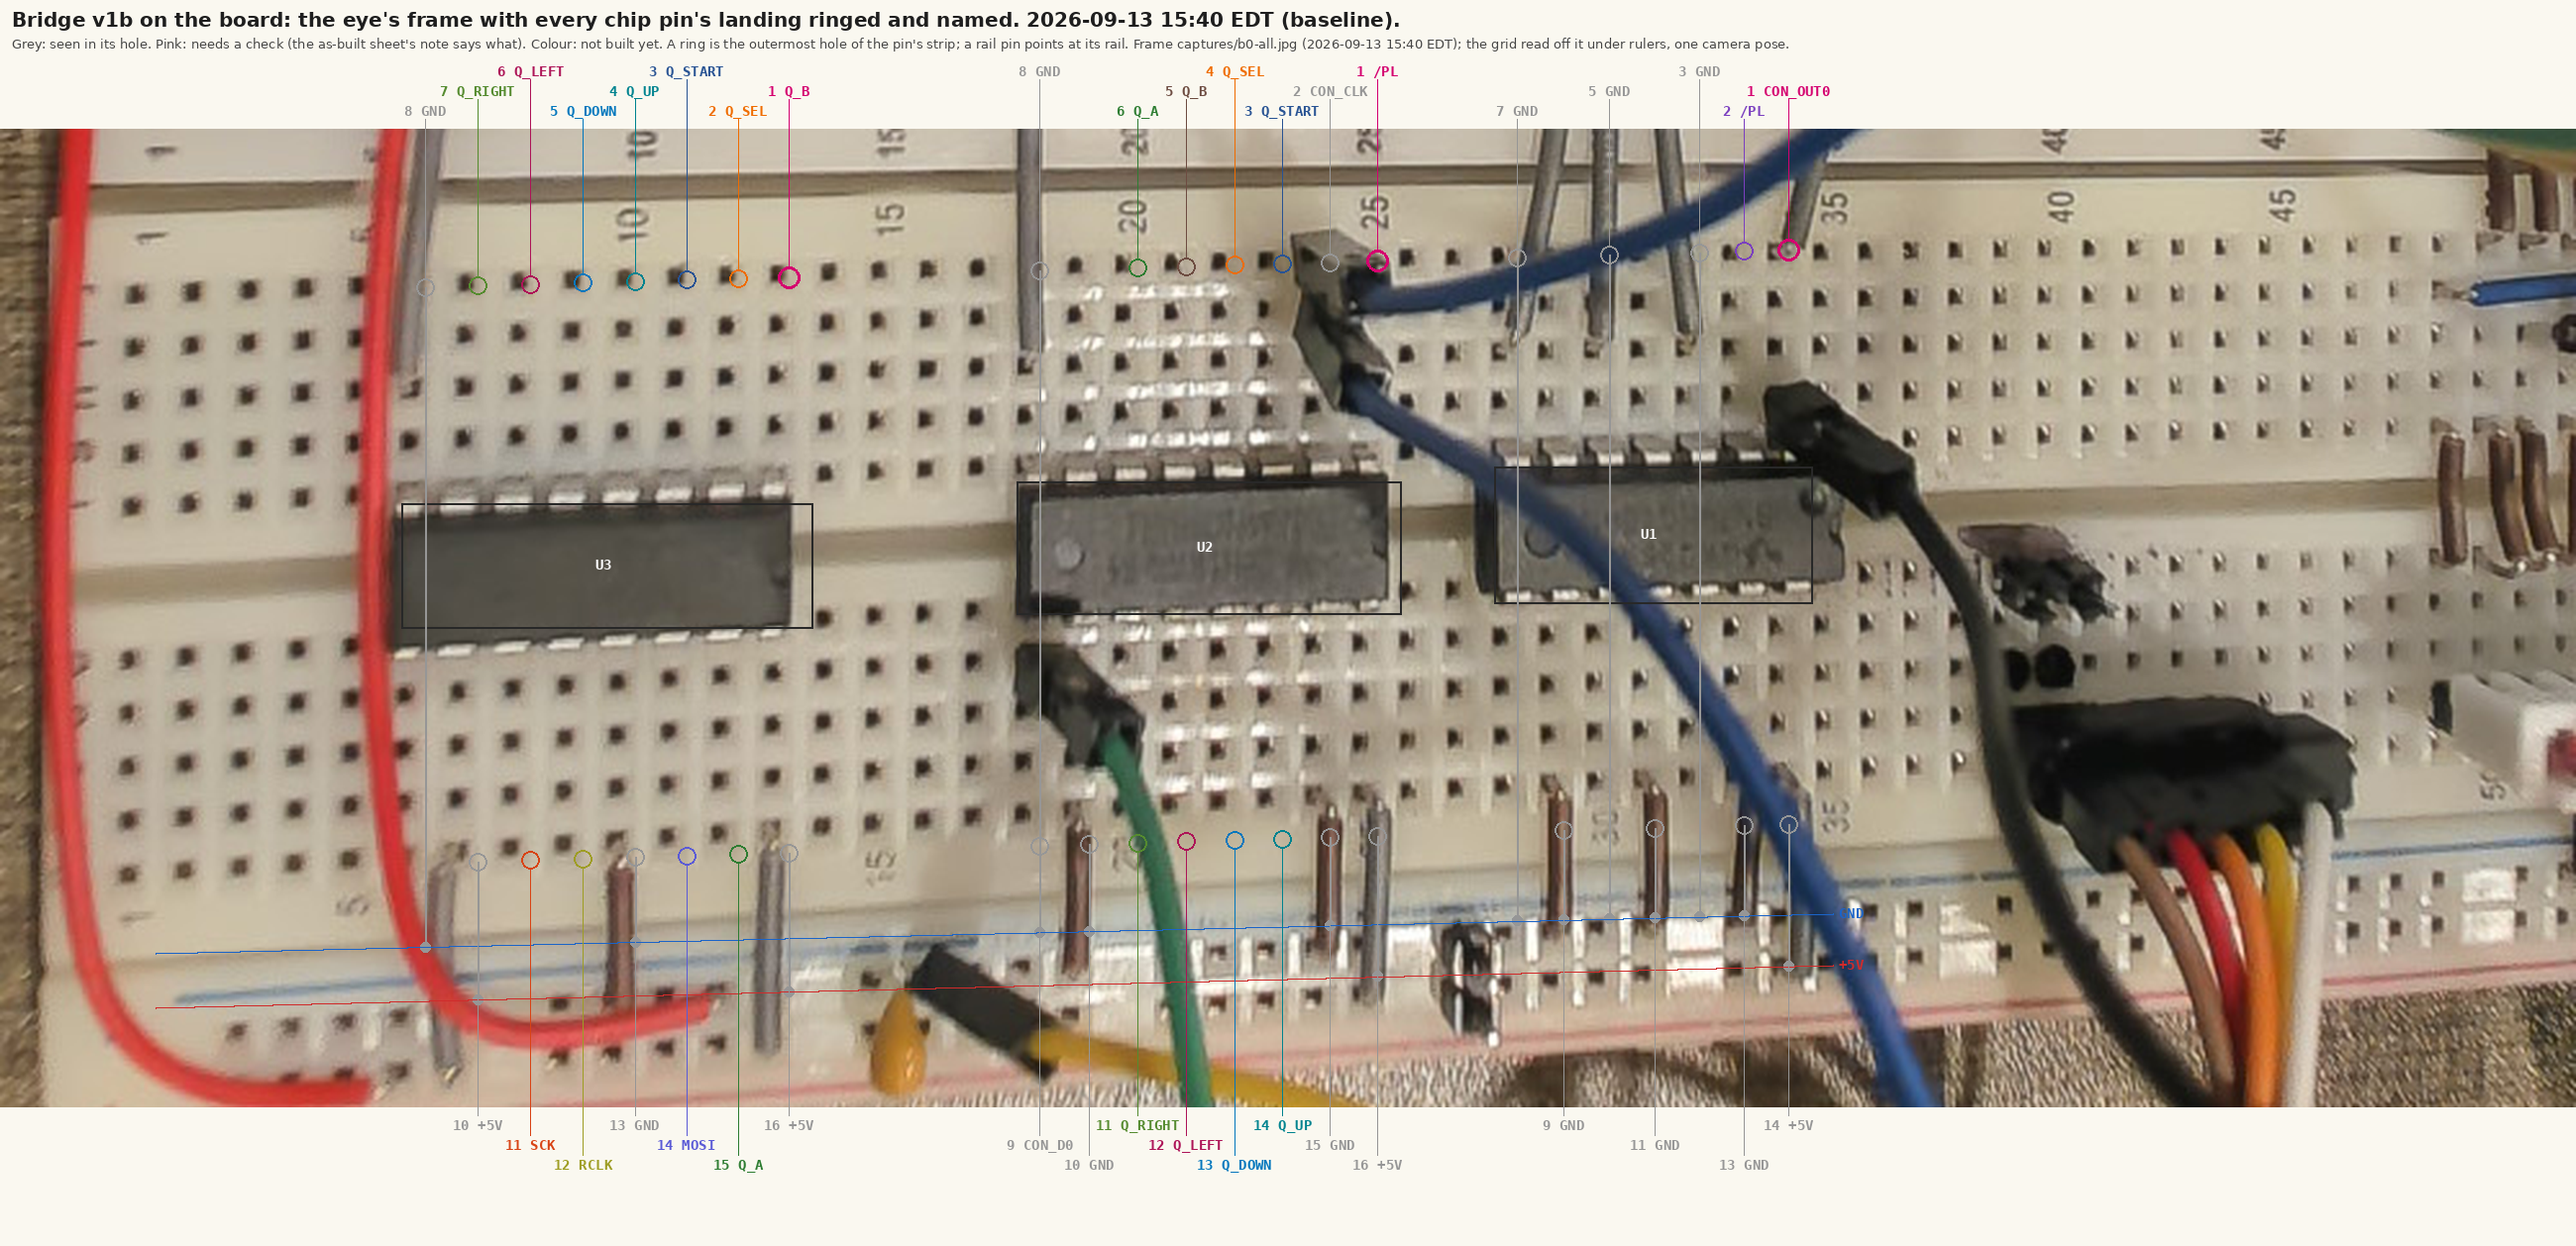
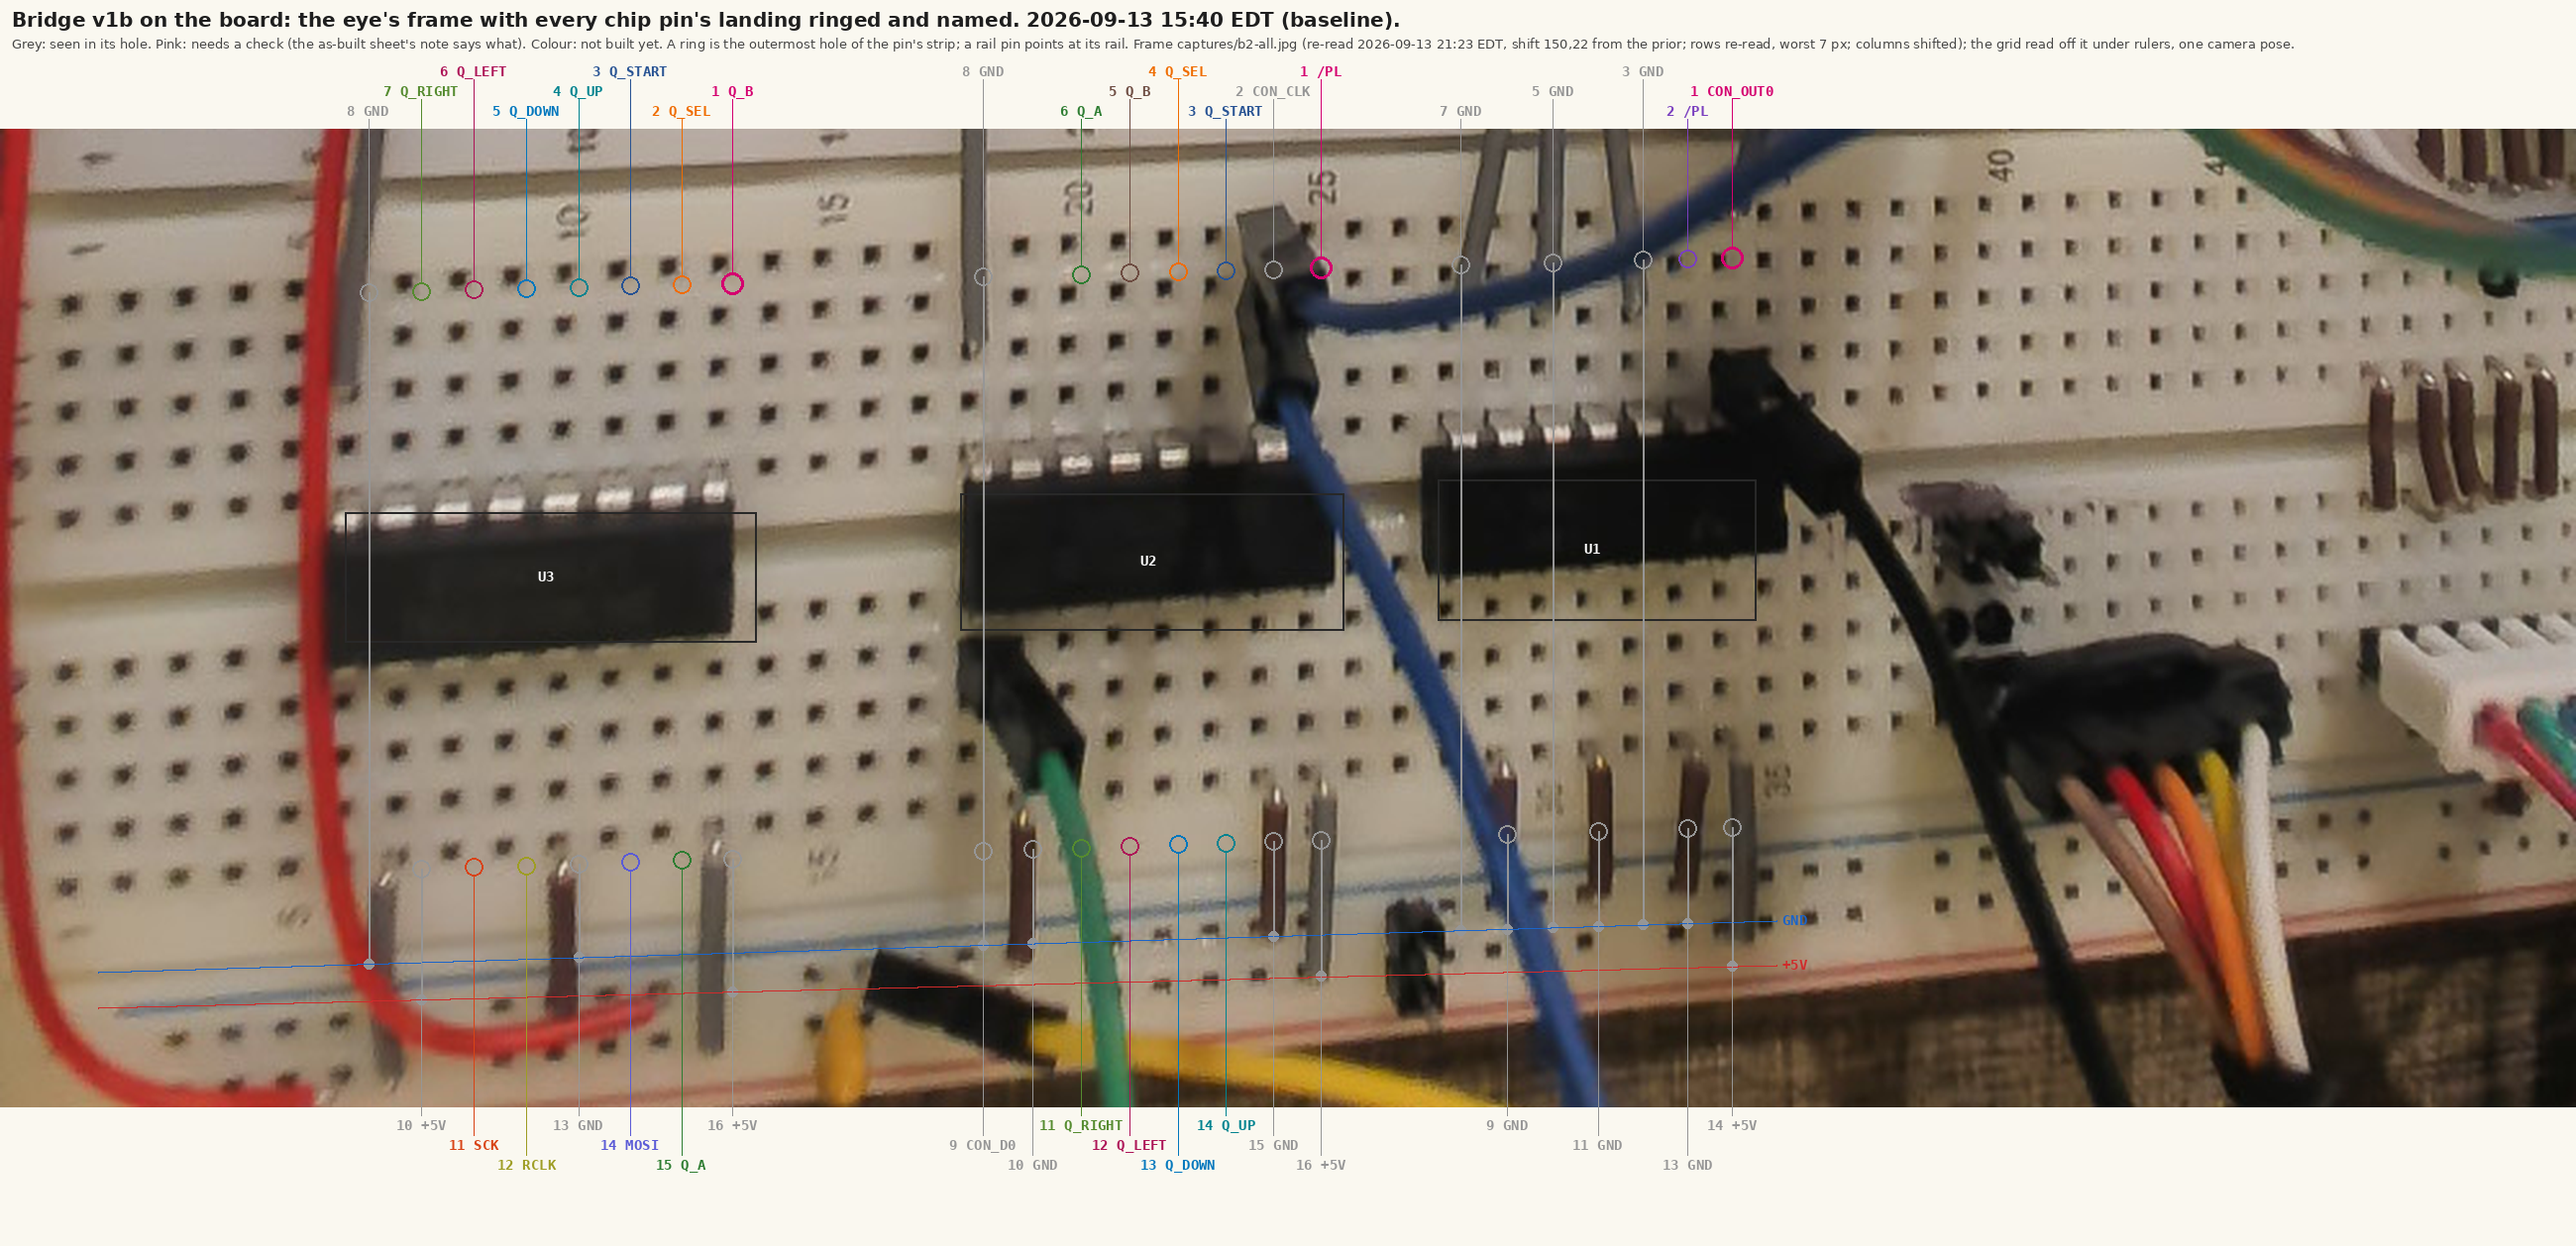
The junction overlay on the lit frame: the grid re-read for the moved camera, rows as even progressions, columns by the measured shift

diff --git a/tools/board-overlay.py b/tools/board-overlay.py
@@ -80,8 +80,156 @@ def pin_hole(board, chip, pin):
     return col, side, (board.x(side, i, y), y)
 
 
+def dips(profile, minsep=10, depth=10):
+    """Local minima of a luma profile: the holes along a line."""
+    from scipy.ndimage import minimum_filter1d, uniform_filter1d
+    sm = uniform_filter1d(profile, 41)
+    mn = minimum_filter1d(profile, minsep)
+    idx = np.where((profile == mn) & (profile < sm - depth))[0]
+    out = []
+    for i in idx:
+        if out and i - out[-1] < minsep // 2:
+            continue
+        out.append(int(i))
+    return out
+
+
+def snap_progression(found, prior, tol):
+    """Five holes of one row as an even progression: each prior snaps to
+    the nearest dip, a dip taken twice (a hole hidden under a wire) is
+    dropped, and the progression is fitted through what is left, so the
+    hidden hole is placed by its neighbours' pitch. Returns the fitted
+    positions and the worst residual of a kept reading."""
+    prior = np.asarray(prior, dtype=float)
+    near = np.array([min(found, key=lambda f: abs(f - x)) for x in prior], dtype=float)
+    keep = np.ones(len(prior), bool)
+    for i in range(len(prior)):
+        dup = [j for j in range(len(prior)) if near[j] == near[i]]
+        if len(dup) > 1:
+            best = min(dup, key=lambda j: abs(near[j] - prior[j]))
+            for j in dup:
+                keep[j] = j == best
+    keep &= np.abs(near - prior) <= tol
+    if keep.sum() < 3:
+        raise SystemExit(f"REFUSED: only {keep.sum()} of {len(prior)} holes of a row read within {tol} px of the prior")
+    i = np.arange(len(prior))
+    a, b = np.polyfit(i[keep], near[keep], 1)
+    fit = a * i + b
+    return [int(round(v)) for v in fit], float(np.abs(near[keep] - prior[keep]).max()), int(keep.sum())
+
+
+def recalibrate(m, frame: Path, board_name: str, shift, out: Path, tol=8, columns_from_prior=False):
+    """The map re-read for a moved camera: the old map plus a shift is
+    the prior. Each hole row's five holes are found as luma dips in a
+    band and fitted as an even progression (a hole under a wire is
+    interpolated); the column anchors are found where the dips of all
+    ten hole rows agree (a wire across the board dents one row's
+    profile, a hole dents them all). A reading further than `tol` from
+    its prior is dropped; a row with fewer than three kept is refused."""
+    L = np.asarray(Image.open(frame).convert("L"), dtype=float)
+    b = m["boards"][board_name]
+    dx, dy = shift
+    worst = 0.0
+    for side in ("middle", "rails"):
+        r = b["rows"][side]
+        for key, ykey in (("x_top", "y_top"), ("x_bottom", "y_bottom")):
+            y = r[ykey] + dy
+            band = L[y - 30:y + 30, :].mean(axis=0)
+            found = dips(band, minsep=12, depth=8)
+            fit, w, kept = snap_progression(found, [x + dx for x in r[key]], tol)
+            print(f"  {side} {key} at y {y}: {fit} ({kept} of 5 read, worst {w:.0f} px)")
+            worst = max(worst, w)
+            r[key], r[ykey] = fit, int(y)
+    for name, r in b["rail_x"].items():
+        for key, ykey in (("x_top", "y_top"), ("x_bottom", "y_bottom")):
+            y = r[ykey] + dy
+            band = L[y - 30:y + 30, :].mean(axis=0)
+            found = dips(band, minsep=8, depth=6)
+            near = min(found, key=lambda f: abs(f - (r[key] + dx)))
+            if abs(near - (r[key] + dx)) > tol:
+                print(f"  rail {name} {key}: no dip within {tol} px, prior kept")
+                near = r[key] + dx
+            r[key], r[ykey] = int(near), int(y)
+    if columns_from_prior:
+        # The column anchors moved by the measured shift alone: a wire's
+        # edge dents a row's profile at half a pitch and the vote below has
+        # numbered those as columns before now; the rulers' anchors plus
+        # the shift the chip crop measured are the better reading.
+        b["column_y"]["anchors"] = [[col, y + dy] for col, y in b["column_y"]["anchors"]]
+        print(f"  columns: the prior anchors shifted by {dy} px, not re-read")
+        merged = None
+    votes = np.zeros(L.shape[0])
+    for side in ("middle", "rails"):
+        r = b["rows"][side]
+        for i in range(5):
+            x = int(round((r["x_top"][i] + r["x_bottom"][i]) / 2))
+            prof = L[:, x - 3:x + 4].mean(axis=1)
+            # the board sits a little turned in the frame, so one column's
+            # holes fall a few pixels apart across the ten rows: a wide window
+            for yy in dips(prof, minsep=9, depth=8):
+                votes[max(0, yy - 5):yy + 6] += 1
+    cols = [yy for yy in range(6, len(votes) - 6) if votes[yy] >= 5 and votes[yy] == votes[yy - 6:yy + 7].max()]
+    if merged is None:
+        merged = []
+        b["crop"] = [b["crop"][0] + dx, b["crop"][1], b["crop"][2] + dx, b["crop"][3]]
+        stamp = __import__("time").strftime("%Y-%m-%d %H:%M %Z")
+        m["frame"] = f"{frame} (re-read {stamp}, shift {dx},{dy} from the prior; rows re-read, worst {worst:.0f} px; columns shifted)"
+        m["_about"].append(f"RE-READ {stamp} off {frame.name}: the previous map shifted by ({dx},{dy}) as the prior; each row's holes found as dips and fitted as an even progression (worst residual {worst:.0f} px); the column anchors shifted by the measured {dy} px, not re-read.")
+        out.write_text(json.dumps(m, indent=1) + "\n")
+        print(f"wrote {out}: re-read off {frame.name}")
+        return
+    merged = []
+    for yy in cols:
+        if merged and yy - merged[-1] < 8:
+            continue
+        merged.append(yy)
+    # Number the voted columns by walking from the prior anchor that
+    # agrees best, one column per hole, a gap of about two pitches
+    # counting as a missed hole. The anchors become every column found,
+    # not the handful the rulers were read at, and a column the prior
+    # placed near the frame's edge cannot drag the fit.
+    priors = {col: y + dy for col, y in b["column_y"]["anchors"]}
+    best_col = min(priors, key=lambda c: min(abs(f - priors[c]) for f in merged))
+    start = min(merged, key=lambda f: abs(f - priors[best_col]))
+    print(f"  columns: walking from column {best_col} at y {start} ({int(votes[start])} rows agree)")
+    numbered = {start: best_col}
+    for direction in (1, -1):
+        y, col = start, best_col
+        pitch = None
+        while True:
+            nxt = [f for f in merged if (f - y) * direction > 0]
+            if not nxt:
+                break
+            f = min(nxt, key=lambda v: abs(v - y))
+            gap = abs(f - y)
+            if pitch is None:
+                pitch = gap
+            steps = max(1, int(round(gap / pitch)))
+            if steps > 2:
+                break
+            col -= direction * steps  # y grows downward as the column number falls
+            pitch = gap / steps
+            numbered[f] = col
+            y = f
+    new = sorted(([c, int(y)] for y, c in numbered.items() if c >= 1), reverse=True)
+    for col, y in new:
+        if col in priors:
+            worst = max(worst, abs(y - priors[col]))
+    print(f"  columns found: {new[0][0]} to {new[-1][0]} ({len(new)}); against the priors, worst {worst:.0f} px")
+    b["column_y"]["anchors"] = new
+    b["crop"] = [b["crop"][0] + dx, b["crop"][1], b["crop"][2] + dx, b["crop"][3]]
+    stamp = __import__("time").strftime("%Y-%m-%d %H:%M %Z")
+    m["frame"] = f"{frame} (re-read {stamp}, shift {dx},{dy} from the prior, worst residual {worst:.0f} px)"
+    m["_about"].append(f"RE-READ {stamp} off {frame.name}: the previous map shifted by ({dx},{dy}) as the prior; each row's holes found as dips and fitted as an even progression, the column anchors where the dips of all ten hole rows agree (worst residual {worst:.0f} px).")
+    out.write_text(json.dumps(m, indent=1) + "\n")
+    print(f"wrote {out}: re-read off {frame.name}, worst residual {worst:.0f} px")
+
+
 def main():
     ap = argparse.ArgumentParser()
+    ap.add_argument("--recalibrate", nargs=2, type=int, metavar=("DX", "DY"), help="re-read the map off FRAME with this shift from the current map as the prior, and stop")
+    ap.add_argument("--tolerance", type=int, default=8, help="how far a re-read anchor may land from its shifted prior, in pixels")
+    ap.add_argument("--columns-from-prior", action="store_true", help="shift the column anchors by DY instead of re-reading them (the rows are always re-read)")
     ap.add_argument("frame", nargs="?", default=str(ROOT / "captures" / "b0-all.jpg"))
     ap.add_argument("--out", default=str(ROOT / "docs" / "lab" / "board-junctions-v1b.png"))
     ap.add_argument("--status", default=str(ROOT / "docs" / "build-status-v1b.json"))
@@ -89,6 +237,9 @@ def main():
     ap.add_argument("--scale", type=float, default=2.6)
     a = ap.parse_args()
     m = json.loads(Path(a.map).read_text())
+    if a.recalibrate:
+        recalibrate(m, Path(a.frame), "right", a.recalibrate, Path(a.map), tol=a.tolerance, columns_from_prior=a.columns_from_prior)
+        return
     status = json.loads(Path(a.status).read_text())
     nl = load(ROOT / "tools" / "netlist.py", "nl")
     sheets, _ = nl.collect()

diff --git a/docs/procedures/2026-09-13-breadboard-qa.md b/docs/procedures/2026-09-13-breadboard-qa.md
@@ -174,3 +174,16 @@ wiring is the same: the four checks of the baseline stand, nothing
 moved, nothing added on the sheet's nets. In this light the close-ups
 are noisier than at 15:40; the bench lamp back on would restore the
 first baseline's legibility.
+
+## Third look, 21:20: the lights on, the grid re-read, the junctions on the photograph
+
+Room light back, the camera's own exposure holding the level (mean 105).
+The named views re-taken; against the 18:50 set every view shifted the
+same few pixels and none stood out, so the wiring is as it was. The
+hole grid was re-read for this pose (`board-overlay.py --recalibrate`:
+each row's five holes found as dips and fitted as an even progression,
+worst 7 px; the column anchors moved by the shift the chip crop
+measured, 150 right and 22 down, because a wire's edge dents a row's
+profile at half a pitch and the automatic column vote numbered those as
+columns). The junction overlay drawn on this frame puts every ring on
+its hole: `docs/lab/board-junctions-v1b.png`.
